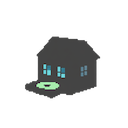
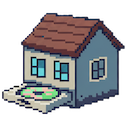
Release 0.2.2

diff --git a/arm/CHANGELOG.md b/arm/CHANGELOG.md
@@ -2,8 +2,15 @@
 
 All notable changes to the ARM Home Assistant add-on are documented in this file. Release dates use the YYYY-MM-DD format.
 
+## [0.2.2] - 2025-10-28
+
+- **Added**: Exposed `/dev/sg0` by default so ARM can interact with optical drives that require the generic SCSI node.
+- **Changed**: Refreshed addon artwork (logo/icon/banner) for improved branding.
+- **Changed**: Updated the Supervisor sidebar icon to `mdi:compact-disc` to better represent the add-on.
+
 ## [0.2.1] - 2025-10-27
 
+- **Breaking**: Home Assistant does not overwrite existing `arm.yaml`; update `WEBSERVER_PORT` to `8089` manually in `/addon_configs/local_arm/arm.yaml` if you upgraded from an earlier release.
 - **Changed**: Aligned ARM's internal web server to use port 8089, matching the external port to simplify networking and ingress.
 - **Fixed**: Updated health checks, default configuration, and documentation to reference the unified port mapping.
 - **Added**: Included the project MIT license for distribution clarity.
